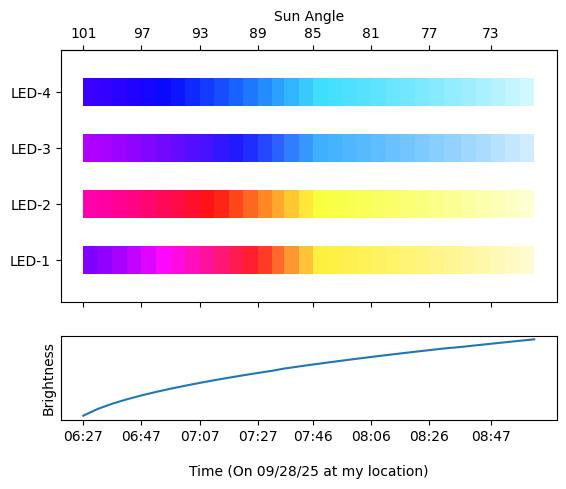
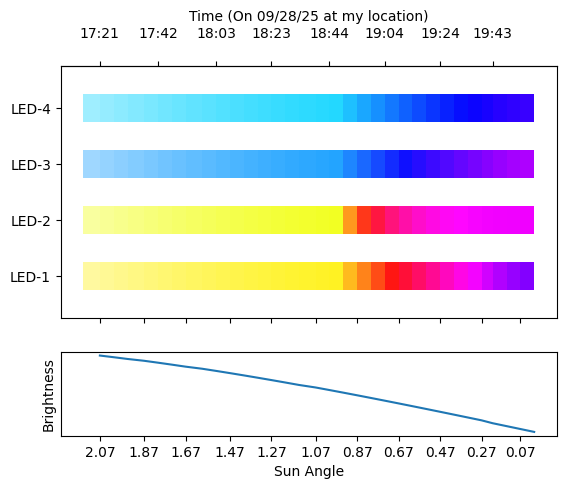
Fixed midnight rollover error

diff --git a/color_calculations.h b/color_calculations.h
@@ -9,18 +9,18 @@
 #define V 2
 
 #define NIGHT 102.
-#define END_SUNRISE 85.
+#define END_SUNRISE 90.
 #define DAY 70.
 
 #define HUE_CHANGE 100
 #define MAX_HUE (255+40)
 #define MAX_VAL 200
 #define VAL_MIN 30
-#define SAT_MIN 32
+#define SAT_MIN 96
 
-#define HUE_POLY 1.5
+#define HUE_POLY 1
 #define SAT_POLY 2
-#define VAL_POLY 0.5
+#define VAL_POLY 3
 #define GREEN_START (45+255)
 #define GREEN_OFFSET 85
 
@@ -28,7 +28,7 @@
 
 const double STOP_HUE_CHANGE = (NIGHT - END_SUNRISE) / (NIGHT - DAY); 
 int initColors[] = {180,200,225,190}; 
-int finalColors[] = {135,145,255+45,255+40}; 
+int finalColors[] = {135,145,256+45,256+40}; 
 
 void white(uint8_t arr[N_COLORS][3]) {
   for (int i=0; i<N_COLORS; i++) {
@@ -50,7 +50,7 @@ void update_leds(uint8_t arr[N_COLORS][3], double percent) {
     uint8_t s,v; 
     
     s = ((255-SAT_MIN) * (1-pow(percent, SAT_POLY))) + SAT_MIN; 
-    v = (MAX_VAL-VAL_MIN) * pow(percent, VAL_POLY); 
+    v = (MAX_VAL-VAL_MIN) * sin(percent); 
     v = (percent != 0) ? v+VAL_MIN : v; // Imperceptable below 20
     
     // For calculating hue we stop changing it after a certain point
